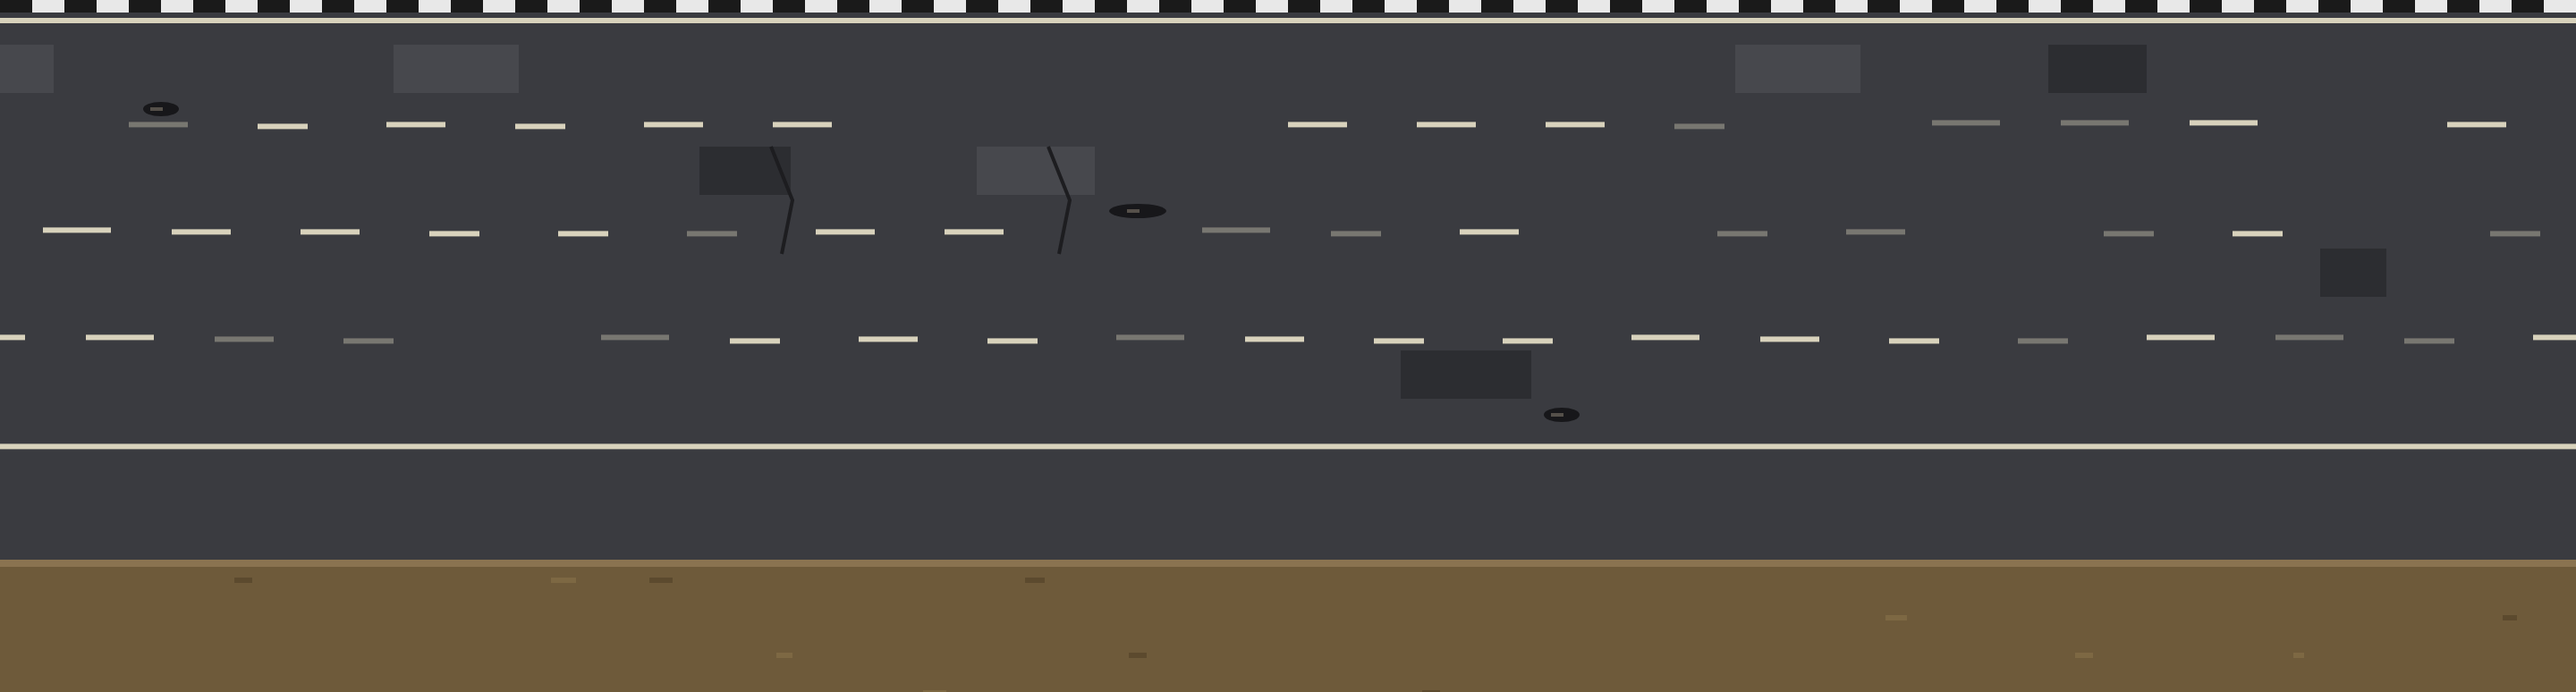
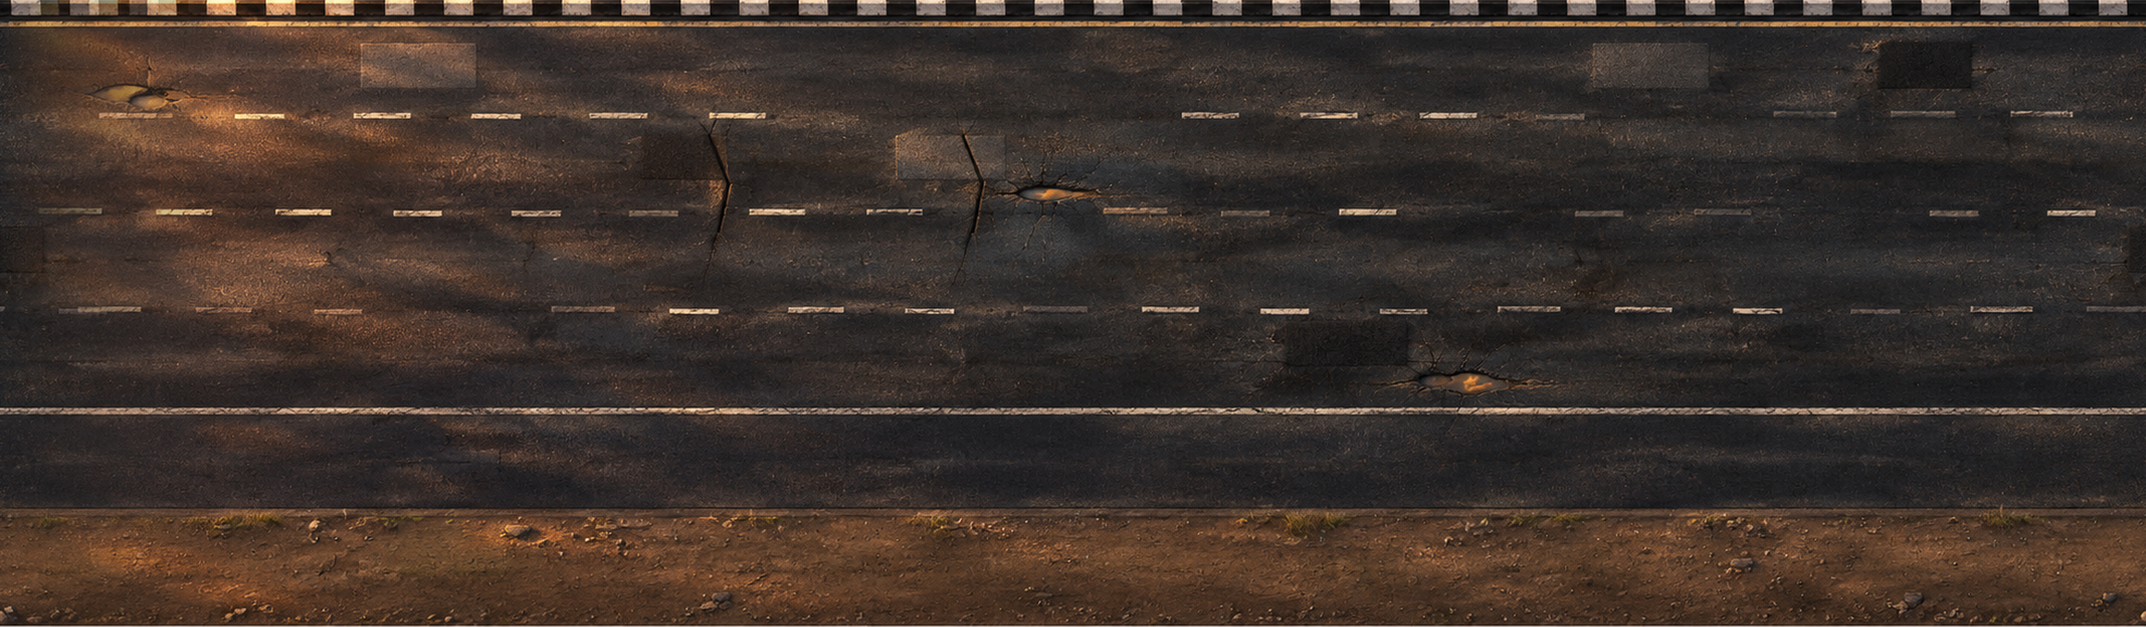
feat(ui): replace background placeholders with photo assets

diff --git a/Source/RoadView.cpp b/Source/RoadView.cpp
@@ -8,12 +8,12 @@ namespace
 // Все картинки — PNG в Assets/, вшиваются в плагин при сборке. Замените файл с тем же именем
 // и пересоберите. Размеры ниже — в пикселях окна; разрешение картинки может быть любым,
 // важны только пропорции.
-//   sky.png            900×200   небо до горизонта
-//   mountains.png      600×60    горы, бесшовно по горизонтали, низ = горизонт
-//   skyline.png        1160×140  город, бесшовно, низ = горизонт
-//   road.png           1440×387  дорога от бордюра (y = 193) вниз, бесшовно; полосы — laneY()
-//   lamp.png           30×150    фонарь, повторяется каждые 280, низ = верх дороги
-//   props.png          1200×80   обочина (арбузы, шины), бесшовно; земля на 60 от верха
+//   sky.png            900×300   небо до горизонта (растягивается)
+//   mountains.png      543×60    горы, бесшовно по горизонтали, низ = горизонт
+//   skyline.png        694×140   город, бесшовно, низ = горизонт
+//   road.png           1333×390  дорога от верха бордюра (y = 184.5) вниз, бесшовно; полосы — laneY()
+//   lamp.png           40×150    фонарь, повторяется каждые 280, низ = верх дороги
+//   props.png          740×90    обочина, бесшовно; земля на 88 от верха
 //   car_<цвет>.png     кузов сбоку без колёс, нос вправо; ширина = длина машины, низ = асфальт
 //   wheel.png          колесо анфас, квадрат, колесо вписано в края
 //   tint.png, rust.png накладки того же размера, что car_black / car_rust: тонировка, ржавчина
@@ -499,14 +499,14 @@ void RoadView::drawScene (juce::Graphics& g) const
     const float ground = scroll + camU;
 
     g.drawImage (sky, { 0.0f, 0.0f, W, juce::jmax (40.0f, horizon) });
-    drawStrip (g, mountains, ground * 0.03f, 600.0f, 600.0f, 60.0f * cityScale, horizon - 60.0f * cityScale, 0.0f, W);
+    drawStrip (g, mountains, ground * 0.03f, 543.0f, 543.0f, 60.0f * cityScale, horizon - 60.0f * cityScale, 0.0f, W);
 
     {
         // Город чуть приближается вместе с камерой.
         const float zs = (1.0f + (zoom - 1.0f) * 0.4f) * cityScale;
         juce::Graphics::ScopedSaveState save (g);
         g.addTransform (juce::AffineTransform::translation (-W * 0.5f, 0.0f).scaled (zs).translated (W * 0.5f, horizon));
-        drawStrip (g, skyline, ground * 0.1f, 1160.0f, 1160.0f, 140.0f, -140.0f, W * 0.5f - W * 0.5f / zs, W * 0.5f + W * 0.5f / zs);
+        drawStrip (g, skyline, ground * 0.1f, 694.0f, 694.0f, 140.0f, -140.0f, W * 0.5f - W * 0.5f / zs, W * 0.5f + W * 0.5f / zs);
     }
 
     juce::Graphics::ScopedSaveState save (g);
@@ -515,9 +515,9 @@ void RoadView::drawScene (juce::Graphics& g) const
     const float margin = 2.0f + shakePx / zoom;
     const float x0 = W * 0.5f - W * 0.5f / zoom - margin, x1 = W * 0.5f + W * 0.5f / zoom + margin;
 
-    drawStrip (g, road, ground, 1440.0f, 1440.0f, 387.0f, roadTop - 7.0f, x0, x1);
-    drawStrip (g, props, ground * 1.1f, 1200.0f, 1200.0f, 80.0f, roadBottom + 40.0f - 60.0f, x0, x1);
-    drawStrip (g, lamp, ground * 0.8f, 280.0f, 30.0f, 150.0f, roadTop - 150.0f, x0, x1);
+    drawStrip (g, road, ground, 1333.0f, 1333.0f, 390.0f, roadTop - 15.5f, x0, x1);
+    drawStrip (g, props, ground * 1.1f, 740.0f, 740.0f, 90.0f, roadBottom + 40.0f - 88.0f, x0, x1);
+    drawStrip (g, lamp, ground * 0.8f, 280.0f, 40.0f, 150.0f, roadTop - 150.0f, x0, x1);
 
     std::array<int, numCars> order {};
     for (int i = 0; i < numCars; ++i)
